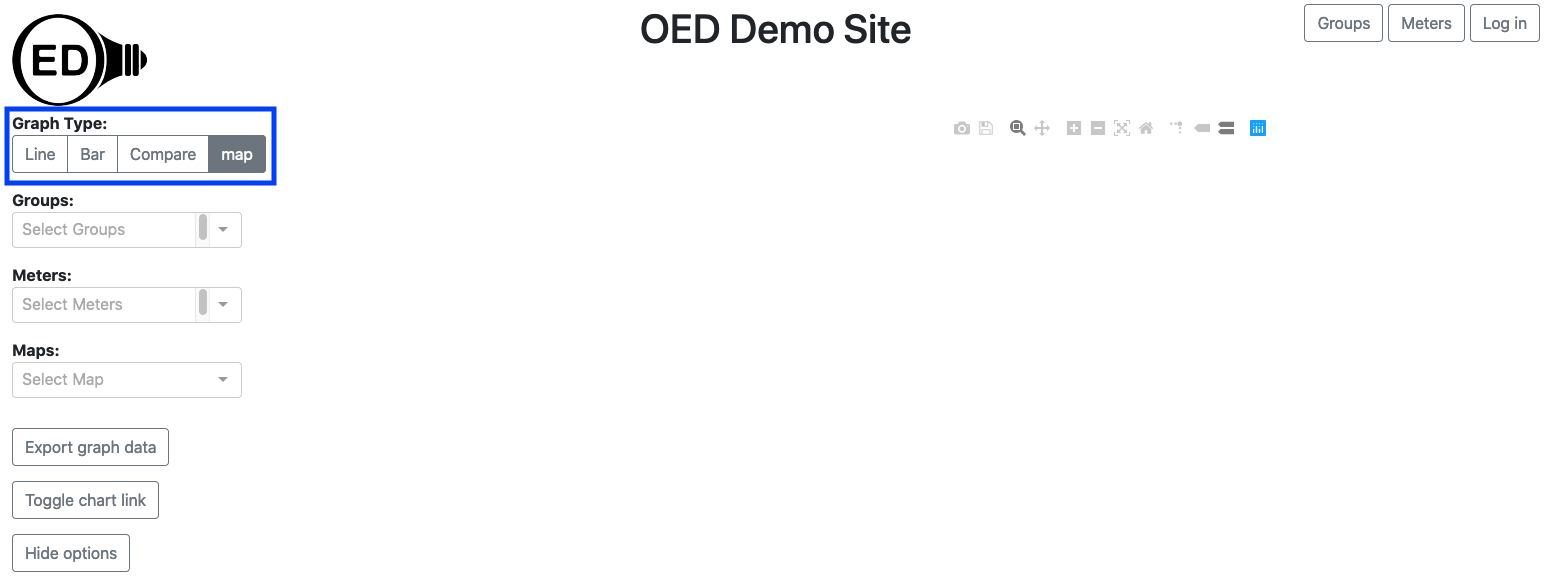
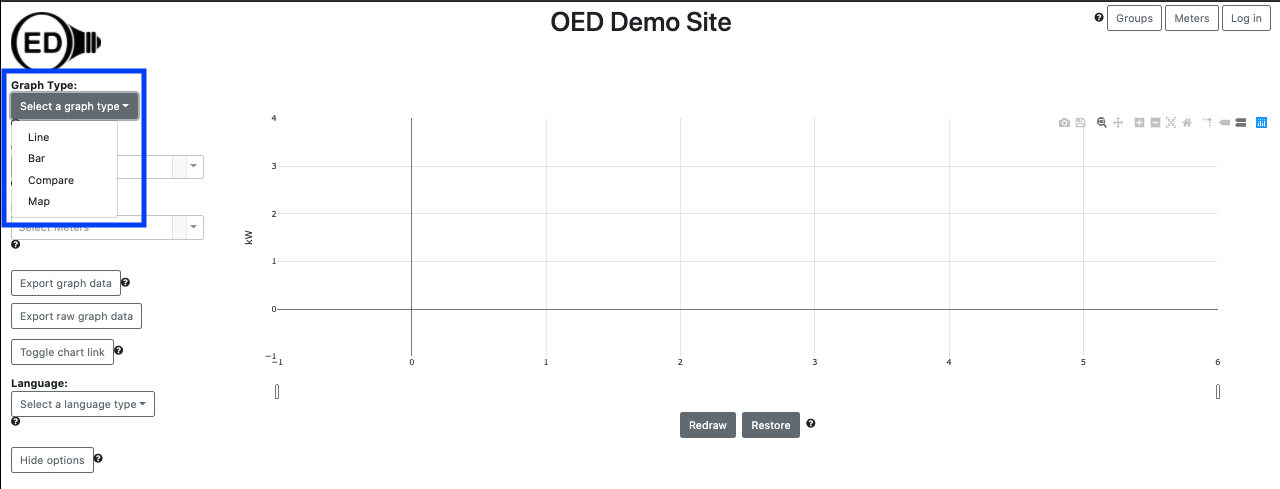
add new graphic dropdown menu

diff --git a/help/v0.7.0/graphType.html b/help/v0.7.0/graphType.html
@@ -16,7 +16,7 @@ title: OED graph type help
 
 	<h2 id="usage">Usage</h2>
 	<p>There are four types of graphics that each reside on a different page of OED. You can select the desired graphic
-		by clicking one the choices from those available (highlighted by the blue box) in the following figure:</p>
+		by clicking one the choices from those available in the dropdown menu (highlighted by the blue box) in the following figure:</p>
 	<img alt="choosing graphic options" src="./images/OEDGraphicChoices.png" style="width: 75vw; min-width: 700px;">
 	<p>The graphics options are given next with a brief description. The provided link goes to another help page with
 		extensive information on each graphic page.</p>
